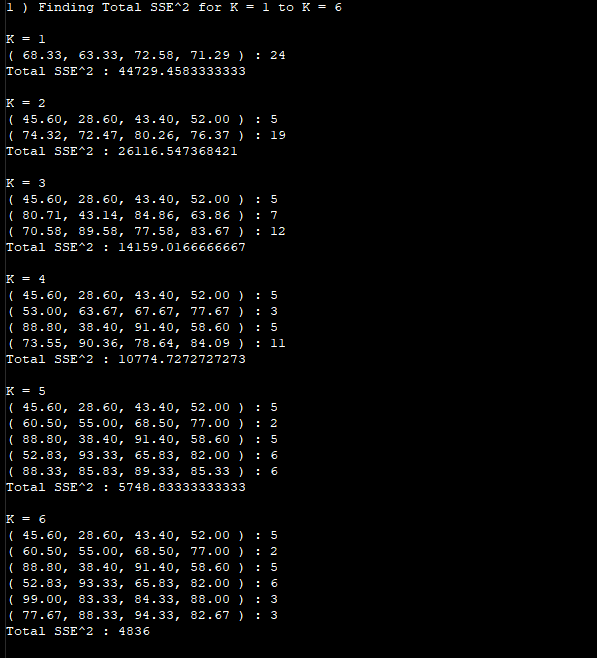
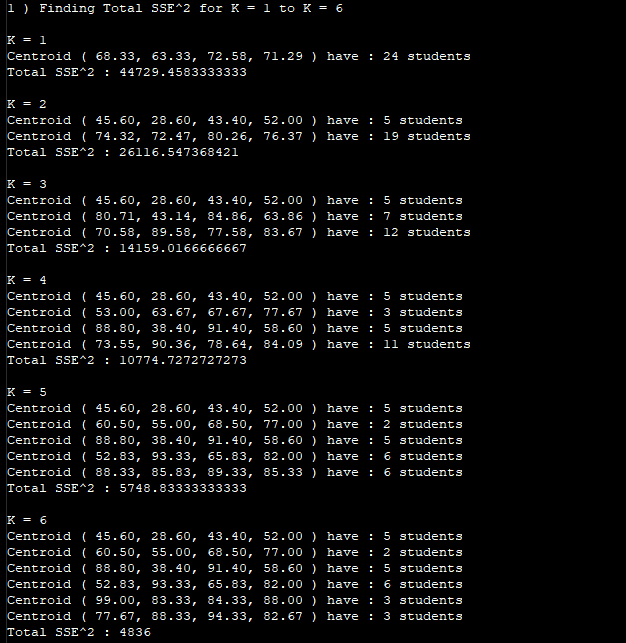
modified display

diff --git a/kMeanClustering/Program.cs b/kMeanClustering/Program.cs
@@ -62,10 +62,13 @@ namespace kMeanClustering
             centroid.Add(new double[,] { { 70, 70, 70, 70 } });
             centroid.Add(new double[,] { { 34, 32, 39, 40 }, { 71, 75, 73, 78 } });
             centroid.Add(new double[,] { { 40, 40, 40, 40 }, { 60, 60, 60, 60 }, { 80, 80, 80, 80 } });
-            centroid.Add(new double[,] { { 40, 40, 40, 40 }, { 55, 55, 55, 55 }, 
+
+            centroid.Add(new double[,] { { 40, 40, 40, 40 }, { 55, 55, 55, 55 },
                 { 70, 70, 70, 70 }, { 85, 85, 85, 85 } });
+
             centroid.Add(new double[,] { { 40, 40, 40, 40 }, { 54, 54, 54, 54 },
                 { 66, 66, 66, 66 }, { 78, 78, 78, 78 }, { 90, 90, 90, 90 } });
+
             centroid.Add(new double[,] { { 40, 40, 40, 40 }, { 54, 54, 54, 54 },
                 { 66, 66, 66, 66 }, { 77, 77, 77, 77 }, { 86, 86, 86, 86 }, { 92, 92, 92, 92 } });
 
@@ -73,7 +76,7 @@ namespace kMeanClustering
             ArrayList clsfedPoint = new ArrayList();
             for (int k = 0; k < centroid.Count; k++)
                 clsfedPoint.Add(new ArrayList());
-            
+
             //get total SSE for each k to plot graph later
             double[] totalSSE = new double[centroid.Count];
 
@@ -102,7 +105,7 @@ namespace kMeanClustering
                             //Euclidean algorithm
                             for (int a = 0; a < noOfVar; a++)
                                 sse2[centroidNo] += Math.Pow(((double[,])centroid[k])[centroidNo, a] - table1[sampleNo, a], 2);
-                            
+
                             //find least SSE
                             if (sse2[centroidNo] < minValue)
                             {
@@ -161,10 +164,10 @@ namespace kMeanClustering
                 Console.WriteLine("K = " + (x + 1));
                 for (int y = 0; y < x + 1; y++)
                 {
-                    Console.Write("( ");
+                    Console.Write("Centroid ( ");
                     for (int a = 0; a < noOfVar; a++)
-                        Console.Write(String.Format("{0:f2}{1}", ((double[,])centroid[x])[y, a], a != noOfVar - 1 ? ", " : " ) : "));
-                    Console.Write(Convert.ToString(((ArrayList)((ArrayList)clsfedPoint[x])[y]).Count) +"\n");
+                        Console.Write(String.Format("{0:f2}{1}", ((double[,])centroid[x])[y, a], a != noOfVar - 1 ? ", " : " ) have : "));
+                    Console.Write(Convert.ToString(((ArrayList)((ArrayList)clsfedPoint[x])[y]).Count) + " students \n");
                 }
                 Console.WriteLine("Total SSE^2 : " + totalSSE[x] + "\n");
             }
@@ -205,16 +208,16 @@ namespace kMeanClustering
                     }
                 }
                 //classify point into centroid with least SSE
-                Console.Write("( ");
+                Console.Write("Student ( ");
                 for (int varNo = 0; varNo < noOfVar; varNo++)
                 {
                     point[varNo] = table2[sampleNo, varNo];
                     Console.Write(String.Format("{0}{1}", point[varNo], varNo != noOfVar - 1 ? ", " : " )"));
                 }
-                Console.WriteLine(" : Centroid No." + (minPoint + 1));
+                Console.WriteLine(" belong to : Centroid No." + (minPoint + 1));
                 ((ArrayList)((ArrayList)clsfedPoint[finalK])[minPoint]).Add(point.Clone());
             }
-            
+
             //reset all value of centroid to zero, for recalculate new centroid later
             for (int centroidNo = 0; centroidNo < ((double[,])centroid[finalK]).GetLength(0); centroidNo++)
             {
@@ -236,7 +239,7 @@ namespace kMeanClustering
                         ((double[,])centroid[finalK])[centroidNo, varNo] /= ((ArrayList)((ArrayList)clsfedPoint[finalK])[centroidNo]).Count;
                     }
                 }
-                
+
             }
             //display new centroid
             Console.WriteLine("\n--------------------------------------------------------------------------");
@@ -248,7 +251,7 @@ namespace kMeanClustering
                     Console.Write(String.Format("{0:f2}{1}", ((double[,])centroid[finalK])[y, a], a != noOfVar - 1 ? ", " : " )"));
                 Console.WriteLine();
             }
-            
+
             //Below is for table 3
             //classify table 3
             Console.WriteLine("\n--------------------------------------------------------------------------");
@@ -273,13 +276,13 @@ namespace kMeanClustering
                     }
                 }
                 //classify point into centroid with least SSE
-                Console.Write("( ");
+                Console.Write("Student ( ");
                 for (int varNo = 0; varNo < noOfVar; varNo++)
                 {
                     point[varNo] = table3[sampleNo, varNo];
                     Console.Write(String.Format("{0}{1}", point[varNo], varNo != noOfVar - 1 ? ", " : " )"));
                 }
-                Console.WriteLine(" : Centroid No." + (minPoint + 1));
+                Console.WriteLine(" belong to : Centroid No." + (minPoint + 1));
                 ((ArrayList)((ArrayList)clsfedPoint[finalK])[minPoint]).Add(point.Clone());
             }
             Console.WriteLine();
